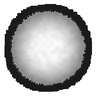
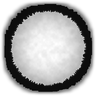
fix: bullet readability on stage 4

diff --git a/tools/art/gen_art.py b/tools/art/gen_art.py
@@ -80,7 +80,8 @@ STAGES = {
     1: {"ink": (7, 8, 14), "mist": (36, 42, 66), "rim": (110, 120, 156), "motif": "stars"},
     2: {"ink": (16, 8, 8), "mist": (92, 40, 22), "rim": (190, 96, 50), "motif": "furnace"},
     3: {"ink": (12, 10, 18), "mist": (56, 48, 74), "rim": (130, 116, 160), "motif": "walls"},
-    4: {"ink": (17, 6, 10), "mist": (74, 24, 34), "rim": (170, 70, 76), "motif": "eclipse"},
+    # the eclipse court is dusk-plum, not red: vermilion is reserved for danger (bullets)
+    4: {"ink": (13, 8, 14), "mist": (52, 32, 54), "rim": (132, 96, 128), "motif": "eclipse"},
     5: {"ink": (5, 13, 15), "mist": (22, 66, 66), "rim": (70, 170, 160), "motif": "gate"},
 }
 BAND_COUNT = 4
@@ -245,6 +246,8 @@ BULLET_SIZE = 96
 SUPERSAMPLE = 4
 ## Half-extent of each sprite in bullet-radius units (the body radius is 1.0).
 BULLET_SHAPES = {"orb": 1.3, "diamond": 1.6, "needle": 2.2, "petal": 2.0, "star": 1.7}
+## Pigment value at the pooled rim (the core is 1.0); kept high so rims out-value every sky.
+BULLET_RIM_VALUE = 0.76
 
 
 def _shape_polygon(shape, rng, unit, centre):
@@ -278,12 +281,20 @@ def paint_bullet(shape, rng):
     keyline_img = mask_img.filter(ImageFilter.MaxFilter(2 * int(unit * 0.16) + 1))
     body = np.asarray(mask_img, dtype=np.float32) / 255.0
     keyline = np.asarray(keyline_img, dtype=np.float32) / 255.0
-    # distance-ish falloff from the edge: watercolour pools pigment at the rim
+    # ink bleeds a little into the paper around the keyline: a soft sumi pool that
+    # darkens whatever sky is behind, so the pigment always sits on near-black
+    bleed_img = keyline_img.filter(ImageFilter.MaxFilter(2 * int(unit * 0.06) + 1)).filter(ImageFilter.GaussianBlur(unit * 0.05))
+    bleed = np.asarray(bleed_img, dtype=np.float32) / 255.0
+    # fade the pool out before the sprite edge so no quad corner ever shows
+    border = np.minimum.outer(np.minimum(np.arange(size), np.arange(size)[::-1]), np.minimum(np.arange(size), np.arange(size)[::-1]))
+    bleed *= np.clip(border / (unit * 0.1), 0.0, 1.0)
+    # distance-ish falloff from the edge: watercolour pools pigment at the rim, but the
+    # pool stays high-value so the silhouette never sinks into a warm or saturated sky
     blurred = np.asarray(mask_img.filter(ImageFilter.GaussianBlur(unit * 0.35)), dtype=np.float32) / 255.0
     grain = fbm(rng, size, size, 24, 24, octaves=3)
-    value = (0.58 + 0.42 * np.clip((blurred - 0.5) * 2.2, 0.0, 1.0)) * (0.9 + 0.12 * grain)
+    value = (BULLET_RIM_VALUE + (1.0 - BULLET_RIM_VALUE) * np.clip((blurred - 0.5) * 2.2, 0.0, 1.0)) * (0.9 + 0.12 * grain)
     rgb = np.repeat((value * body)[..., None], 3, axis=2)
-    alpha = np.maximum(body, keyline * 0.9)
+    alpha = np.maximum.reduce([body, keyline * 0.95, bleed * 0.6])
     image = Image.fromarray(np.clip(np.dstack([rgb, alpha[..., None]]) * 255, 0, 255).astype(np.uint8), "RGBA")
     image = image.resize((BULLET_SIZE, BULLET_SIZE), Image.Resampling.LANCZOS)
     (ROOT / "art" / "bullets").mkdir(parents=True, exist_ok=True)
